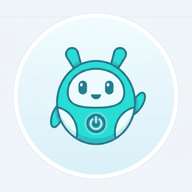
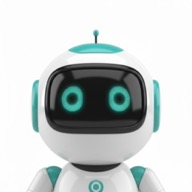
fix(client): 코니 아바타·Teams 아이콘 갱신

diff --git a/client/src/BotAvatar.jsx b/client/src/BotAvatar.jsx
@@ -1,5 +1,6 @@
 /** 봇 아바타 — 코니 캐릭터 이미지 (responding: 외부 제어, pulseMs: 마운트 후 일정 시간만 활성) */
 import { useState, useEffect } from 'react';
+import { PUBLIC_ASSET_VER } from './config/constants.js';
 
 export default function BotAvatar({
   size = 40,
@@ -17,7 +18,8 @@ export default function BotAvatar({
 
   const s = size;
   const showActive = pulseMs > 0 ? pulseActive : responding;
-  const src = showActive ? '/assets/connie-active.png' : '/assets/connie.png';
+  const q = PUBLIC_ASSET_VER ? `?v=${PUBLIC_ASSET_VER}` : '';
+  const src = (showActive ? '/assets/connie-active.png' : '/assets/connie.png') + q;
 
   return (
     <div

diff --git a/client/src/config/constants.js b/client/src/config/constants.js
@@ -2,6 +2,8 @@
  * 앱 상수
  */
 export const API_BASE = import.meta.env.VITE_API_URL || '';
+/** `public/` 정적 아바타 등 교체 시 CDN·브라우저 캐시 무력화용(값만 올리면 됨) */
+export const PUBLIC_ASSET_VER = '3';
 export const COMPANY_SITE = 'https://kr.catalyst.concentrix.com/';
 
 export const FAQ_CHIPS = ['건전지 어디 있어?', '회식 언제야?', '연차는 며칠이야?'];
